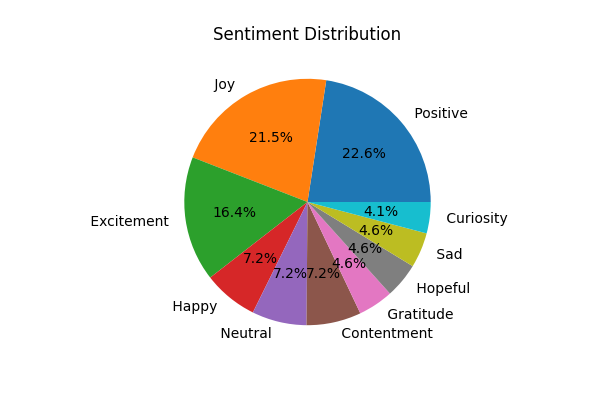
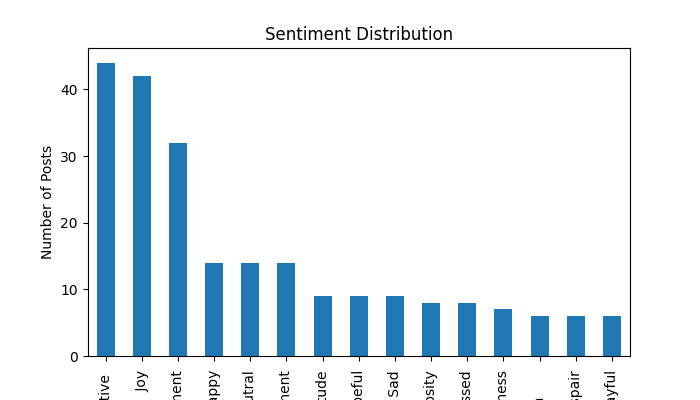
adjust

diff --git a/visualizer.py b/visualizer.py
@@ -2,21 +2,13 @@ import matplotlib.pyplot as plt
 import pandas as pd
 
 def plot_sentiment_distribution(df):
-    plt.figure(figsize=(6,4))
-    top_sentiments = df['Sentiment'].value_counts().head(10)
-    top_sentiments.plot(kind='pie', autopct='%1.1f%%')
+    plt.figure(figsize=(7,4))
+    top_sentiments = df['Sentiment'].value_counts().head(15)
+    top_sentiments.plot(kind='bar')
     plt.title("Sentiment Distribution")
-    plt.ylabel("")
-    plt.savefig("sentiment_distribution.png")
-    plt.show()
-
-def plot_year_distribution(df):
-    plt.figure(figsize=(6,4))
-    df['Year'].value_counts().plot(kind='bar')
-    plt.title("Number of Posts from 2010 to 2023")
-    plt.xlabel("Years")
+    plt.xlabel("Sentiment")
     plt.ylabel("Number of Posts")
-    plt.savefig("year_distribution.png")
+    plt.savefig("sentiment_distribution.png")
     plt.show()
 
 def plot_country_distribution(df):
@@ -27,3 +19,23 @@ def plot_country_distribution(df):
     plt.ylabel("")
     plt.savefig("country_distribution.png")
     plt.show()
+    
+def plot_year_distribution(df):
+    plt.figure(figsize=(6,4))
+    df['Year'].value_counts().plot(kind='bar')
+    plt.title("Number of Posts from 2010 to 2023")
+    plt.xlabel("Years")
+    plt.ylabel("Number of Posts")
+    plt.savefig("year_distribution.png")
+    plt.show()
+
+def plot_platform_distribution(df):
+    plt.figure(figsize=(6,4))
+    df['Platform'] = df['Platform'].str.strip().str.lower()
+    platform_counts = df['Platform'].value_counts()
+    platform_counts.plot(kind='pie', autopct='%1.1f%%')
+    plt.title("Platform Distribution")
+    plt.ylabel("")
+    plt.savefig("platform_distribution.png")
+    plt.show()
+

diff --git a/main.py b/main.py
@@ -1,14 +1,15 @@
 import pandas as pd
 from data_loader import load_data
 from sentiment_analyzer import analyze_sentiment, save_sentiment_report
-from visualizer import plot_sentiment_distribution, plot_year_distribution, plot_country_distribution
+from visualizer import plot_sentiment_distribution, plot_year_distribution, plot_country_distribution, plot_platform_distribution
 
 file_path = 'Sentiment_Data.csv'
-df = pd.read_csv(file_path)
 
-load_data(df)
+df = load_data(file_path)
+
 analyze_sentiment(df)
 save_sentiment_report(df[['Text', 'Sentiment']])
 plot_sentiment_distribution(df)
-plot_year_distribution(df)
 plot_country_distribution(df)
+plot_year_distribution(df)
+plot_platform_distribution(df)

diff --git a/sentiment_analyzer.py b/sentiment_analyzer.py
@@ -6,6 +6,7 @@ def analyze_sentiment(df):
         print(f"There are {len(df[df['Sentiment'].str.strip() == 'Positive'])} positive posts.")
         print(f"There are {len(df[df['Year'] == 2023])} posts in 2023.")
         print(f"There are {len(df[df['Country'].str.strip() == 'UK'])} posts from United Kingdom.")
+        print(f"The average retweets is {df['Retweets'].mean():.2f} and average likes is {df['Likes'].mean():.2f}.")
         
 
 def save_sentiment_report(df, filename="sentiment_report.csv"):
